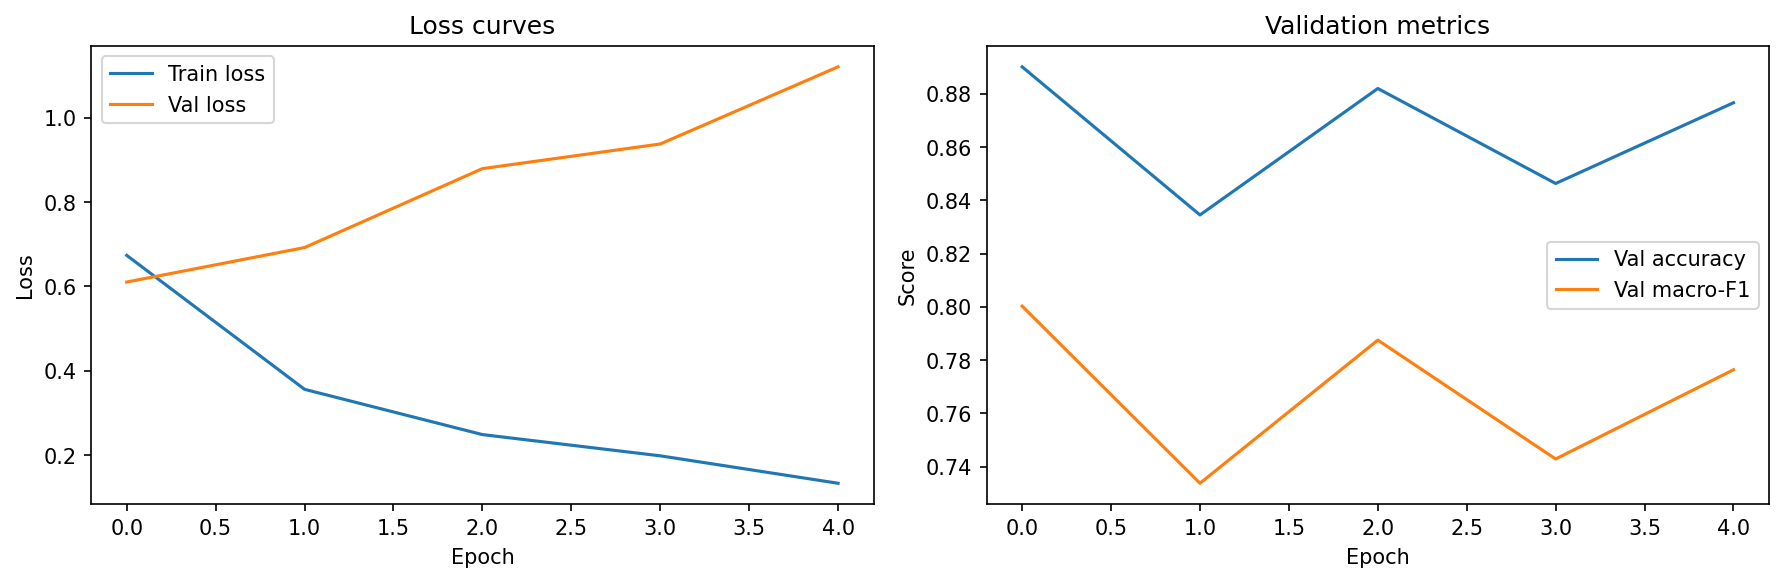
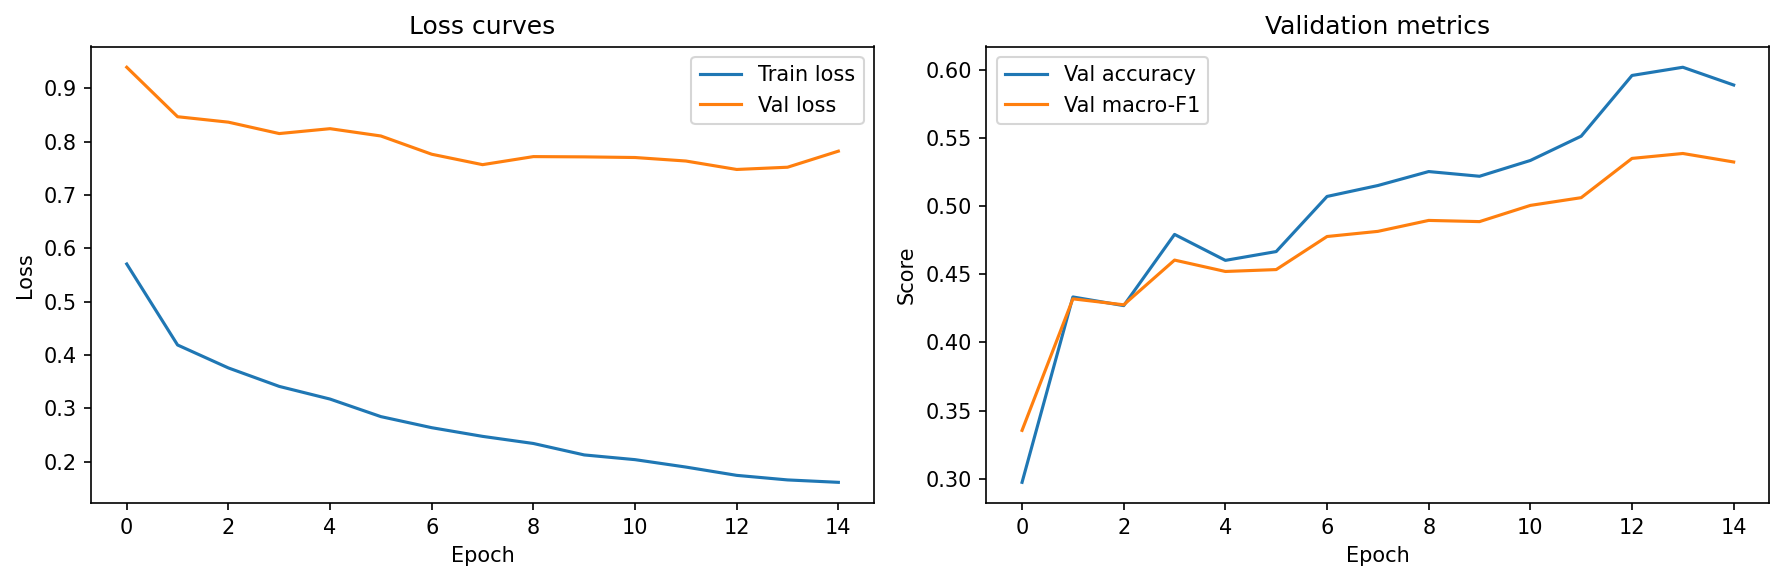
streamlit + explanation
added in a front end using streamlit and also an explanation feature

diff --git a/app.py b/app.py
@@ -1,0 +1,76 @@
+import streamlit as st
+import torch
+import pandas as pd
+
+from src.CONDA import get_device, load_model, predict_proba, LABEL_NAMES
+
+EXPLANATION_RULES = {
+    "Explicit": ["idiot", "trash", "stupid", "loser", "moron", "dumb"],
+    "Implicit": ["nice job", "sure buddy", "wow amazing", "good one"],
+    "Action": ["reported", "muted", "kick", "ban"],
+    "Other": []
+}
+
+def explain_prediction(text, label):
+    text_lower = text.lower()
+    reasons = []
+
+    for keyword in EXPLANATION_RULES.get(label, []):
+        if keyword in text_lower:
+            reasons.append(f'Contains phrase: "{keyword}"')
+
+    if label == "Explicit":
+        reasons.append("Direct hostile language detected")
+    elif label == "Implicit":
+        reasons.append("Possible sarcasm or passive-aggressive tone")
+    elif label == "Action":
+        reasons.append("References moderation or player actions")
+    else:
+        reasons.append("No strong toxic language detected")
+
+    return reasons
+
+st.set_page_config(page_title="ToxScan AI", page_icon="🛡️")
+
[email redacted]_resource
+def load_toxscan():
+    device = get_device()
+    model = load_model(device, output_dir="output", prefix="toxscan")
+    if model is None:
+        st.error("No trained model found. Run: python src/CONDA.py first")
+        st.stop()
+    return model, device
+
+model, device = load_toxscan()
+
+st.title("🛡️ ToxScan AI")
+st.write("Enter gaming chat text and get a toxicity classification.")
+
+text = st.text_area("Chat message", placeholder="you are so trash get out of this game")
+
+if st.button("Analyze"):
+    if not text.strip():
+        st.warning("Please enter a message.")
+    else:
+        probs = predict_proba(model, [text], device)[0]
+        pred_idx = int(probs.argmax())
+        pred_label = LABEL_NAMES[pred_idx]
+        confidence = probs[pred_idx]
+
+        st.subheader("Result")
+        st.metric("Prediction", pred_label)
+        st.metric("Confidence", f"{confidence:.2%}")
+
+        reasons = explain_prediction(text, pred_label)
+
+        st.subheader("Why this prediction?")
+        for r in reasons:
+            st.write(f"- {r}")
+
+        df = pd.DataFrame({
+            "Class": LABEL_NAMES,
+            "Probability": probs
+        })
+
+        st.bar_chart(df.set_index("Class"))
+        st.dataframe(df)

diff --git a/src/CONDA.py b/src/CONDA.py
@@ -52,6 +52,21 @@ import matplotlib.pyplot as plt
 from typing import Dict, List, Tuple, Any
 
 
+EXPLANATION_RULES = {
+    "Explicit": [
+        "idiot", "trash", "stupid", "loser", "moron",
+        "kill yourself", "dumb"
+    ],
+    "Implicit": [
+        "nice job", "sure buddy", "wow amazing",
+        "good one"
+    ],
+    "Action": [
+        "reported", "muted", "kick", "ban"
+    ]
+}
+
+
 # ---------------------------------------------------------------------------
 # Seeds & device
 # ---------------------------------------------------------------------------
@@ -88,6 +103,31 @@ def get_task_metadata() -> Dict[str, Any]:
             "Frozen pretrained Sentence Transformer + MLP head."
         ),
     }
+
+
+# Explanations 
+def explain_prediction(text, label):
+    text_lower = text.lower()
+
+    reasons = []
+
+    for keyword in EXPLANATION_RULES.get(label, []):
+        if keyword in text_lower:
+            reasons.append(f'Contains phrase: "{keyword}"')
+
+    if label == "Explicit":
+        reasons.append("Direct hostile language detected")
+
+    elif label == "Implicit":
+        reasons.append("Possible sarcasm or passive-aggressive tone")
+
+    elif label == "Action":
+        reasons.append("References moderation or player actions")
+
+    if not reasons:
+        reasons.append("Detected contextual toxicity patterns")
+
+    return reasons
 
 
 # ---------------------------------------------------------------------------
@@ -480,11 +520,11 @@ def save_artifacts(
     """Save model head checkpoint, metrics JSON, and training curve."""
     os.makedirs(output_dir, exist_ok=True)
 
-    # Save the full model state (frozen encoder buffers + trained head weights)
+    # Save ONLY the trained classifier head
     ckpt_path = os.path.join(output_dir, f"{prefix}_model.pt")
     torch.save({
-        "model_state_dict": model.state_dict(),
-        "label_map":        LABEL_MAP,
+        "head_state_dict": model.head.state_dict(),
+        "label_map": LABEL_MAP,
     }, ckpt_path)
 
     metrics_path = os.path.join(output_dir, f"{prefix}_metrics.json")
@@ -545,8 +585,8 @@ def load_model(
 
     print(f"Found existing checkpoint — loading from '{output_dir}/'")
     model = SentenceTransformerClassifier().to(device)
-    ckpt  = torch.load(ckpt_path, map_location=device)
-    model.load_state_dict(ckpt["model_state_dict"])
+    ckpt = torch.load(ckpt_path, map_location=device)
+    model.head.load_state_dict(ckpt["head_state_dict"])
     model.eval()
     print("Model loaded successfully — skipping training.")
     return model